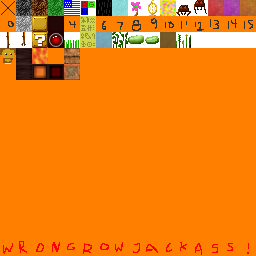
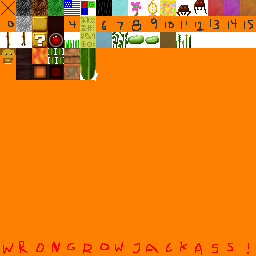
Primitive fronds on trees

Changed region(s): [[0.3125, 0.1875, 0.375, 0.3125], [0.1875, 0.1875, 0.25, 0.25]]

diff --git a/main.js b/main.js
@@ -250,6 +250,11 @@ var BLOCK_TYPES = {
     solid: true,
     geometry: blockGeometryLog,
   },
+  frond: {
+    tile: [5,3],
+    billboard: true,
+    scale: 0.5,
+  },
 };
 for (var i in BLOCK_TYPES)
   BLOCK_TYPES[i].name = i;
@@ -1014,7 +1019,7 @@ var _DX = 1;
 Block.prototype.neighbor = function (face) {
   switch (face) {
   case FACE_FRONT: 
-    return this.z-this.chunk.chunkz > 0 ? 
+    return this.z - this.chunk.chunkz > 0 ? 
       this.chunk.blocks[this.i - _DZ] : block(this.x, this.y,this. z-1);
   case FACE_BACK:  
     return this.z-this.chunk.chunkz < NZ-1 ? 
@@ -1753,6 +1758,7 @@ Block.prototype.breakBlock = function () {
 }
 
 Block.prototype.placeBlock = function (newType, stackPos) {
+  if (this.outofbounds) return;
   if (typeof newType === 'string') BLOCK_TYPES[newType];
   this.type = newType;
   delete this.stackPos;
@@ -1886,6 +1892,8 @@ Block.prototype.buildGeometry = function () {
     // do nothing
   } else if (this.type.geometry) {
     this.type.geometry(this);
+  } else if (this.type.billboard) {
+    blockGeometryBillboard(this);
   } else if (this.type.hashes) {
     blockGeometryHash(this);
   } else {
@@ -2007,6 +2015,10 @@ function buildTree(base) {
     below = base;
     base = base.neighbor(FACE_TOP);
   }
+  if (below)
+    for (var f = 0; f < 6; ++f)
+      if (f != FACE_BOTTOM)
+        below.neighbor(f).placeBlock(BLOCK_TYPES.frond);
 }
 
 
@@ -2073,6 +2085,18 @@ function appendGeometry(v, w, justLighting) {
     for (var i = 0; i < w.indices.length; ++i)
       v.indices.push(pindex + w.indices[i]);
   }
+}
+
+
+function blockGeometryBillboard(b, v) {
+  b.vertices = {
+    aPos: [],
+    aLighting: [],
+    aColor: [],
+    aTexCoord: [],
+    indices: [],
+  };
+  entityGeometryBillboard({x:b.x, y:b.y, z:b.z, type:b.type}, b.vertices);
 }
 
 
